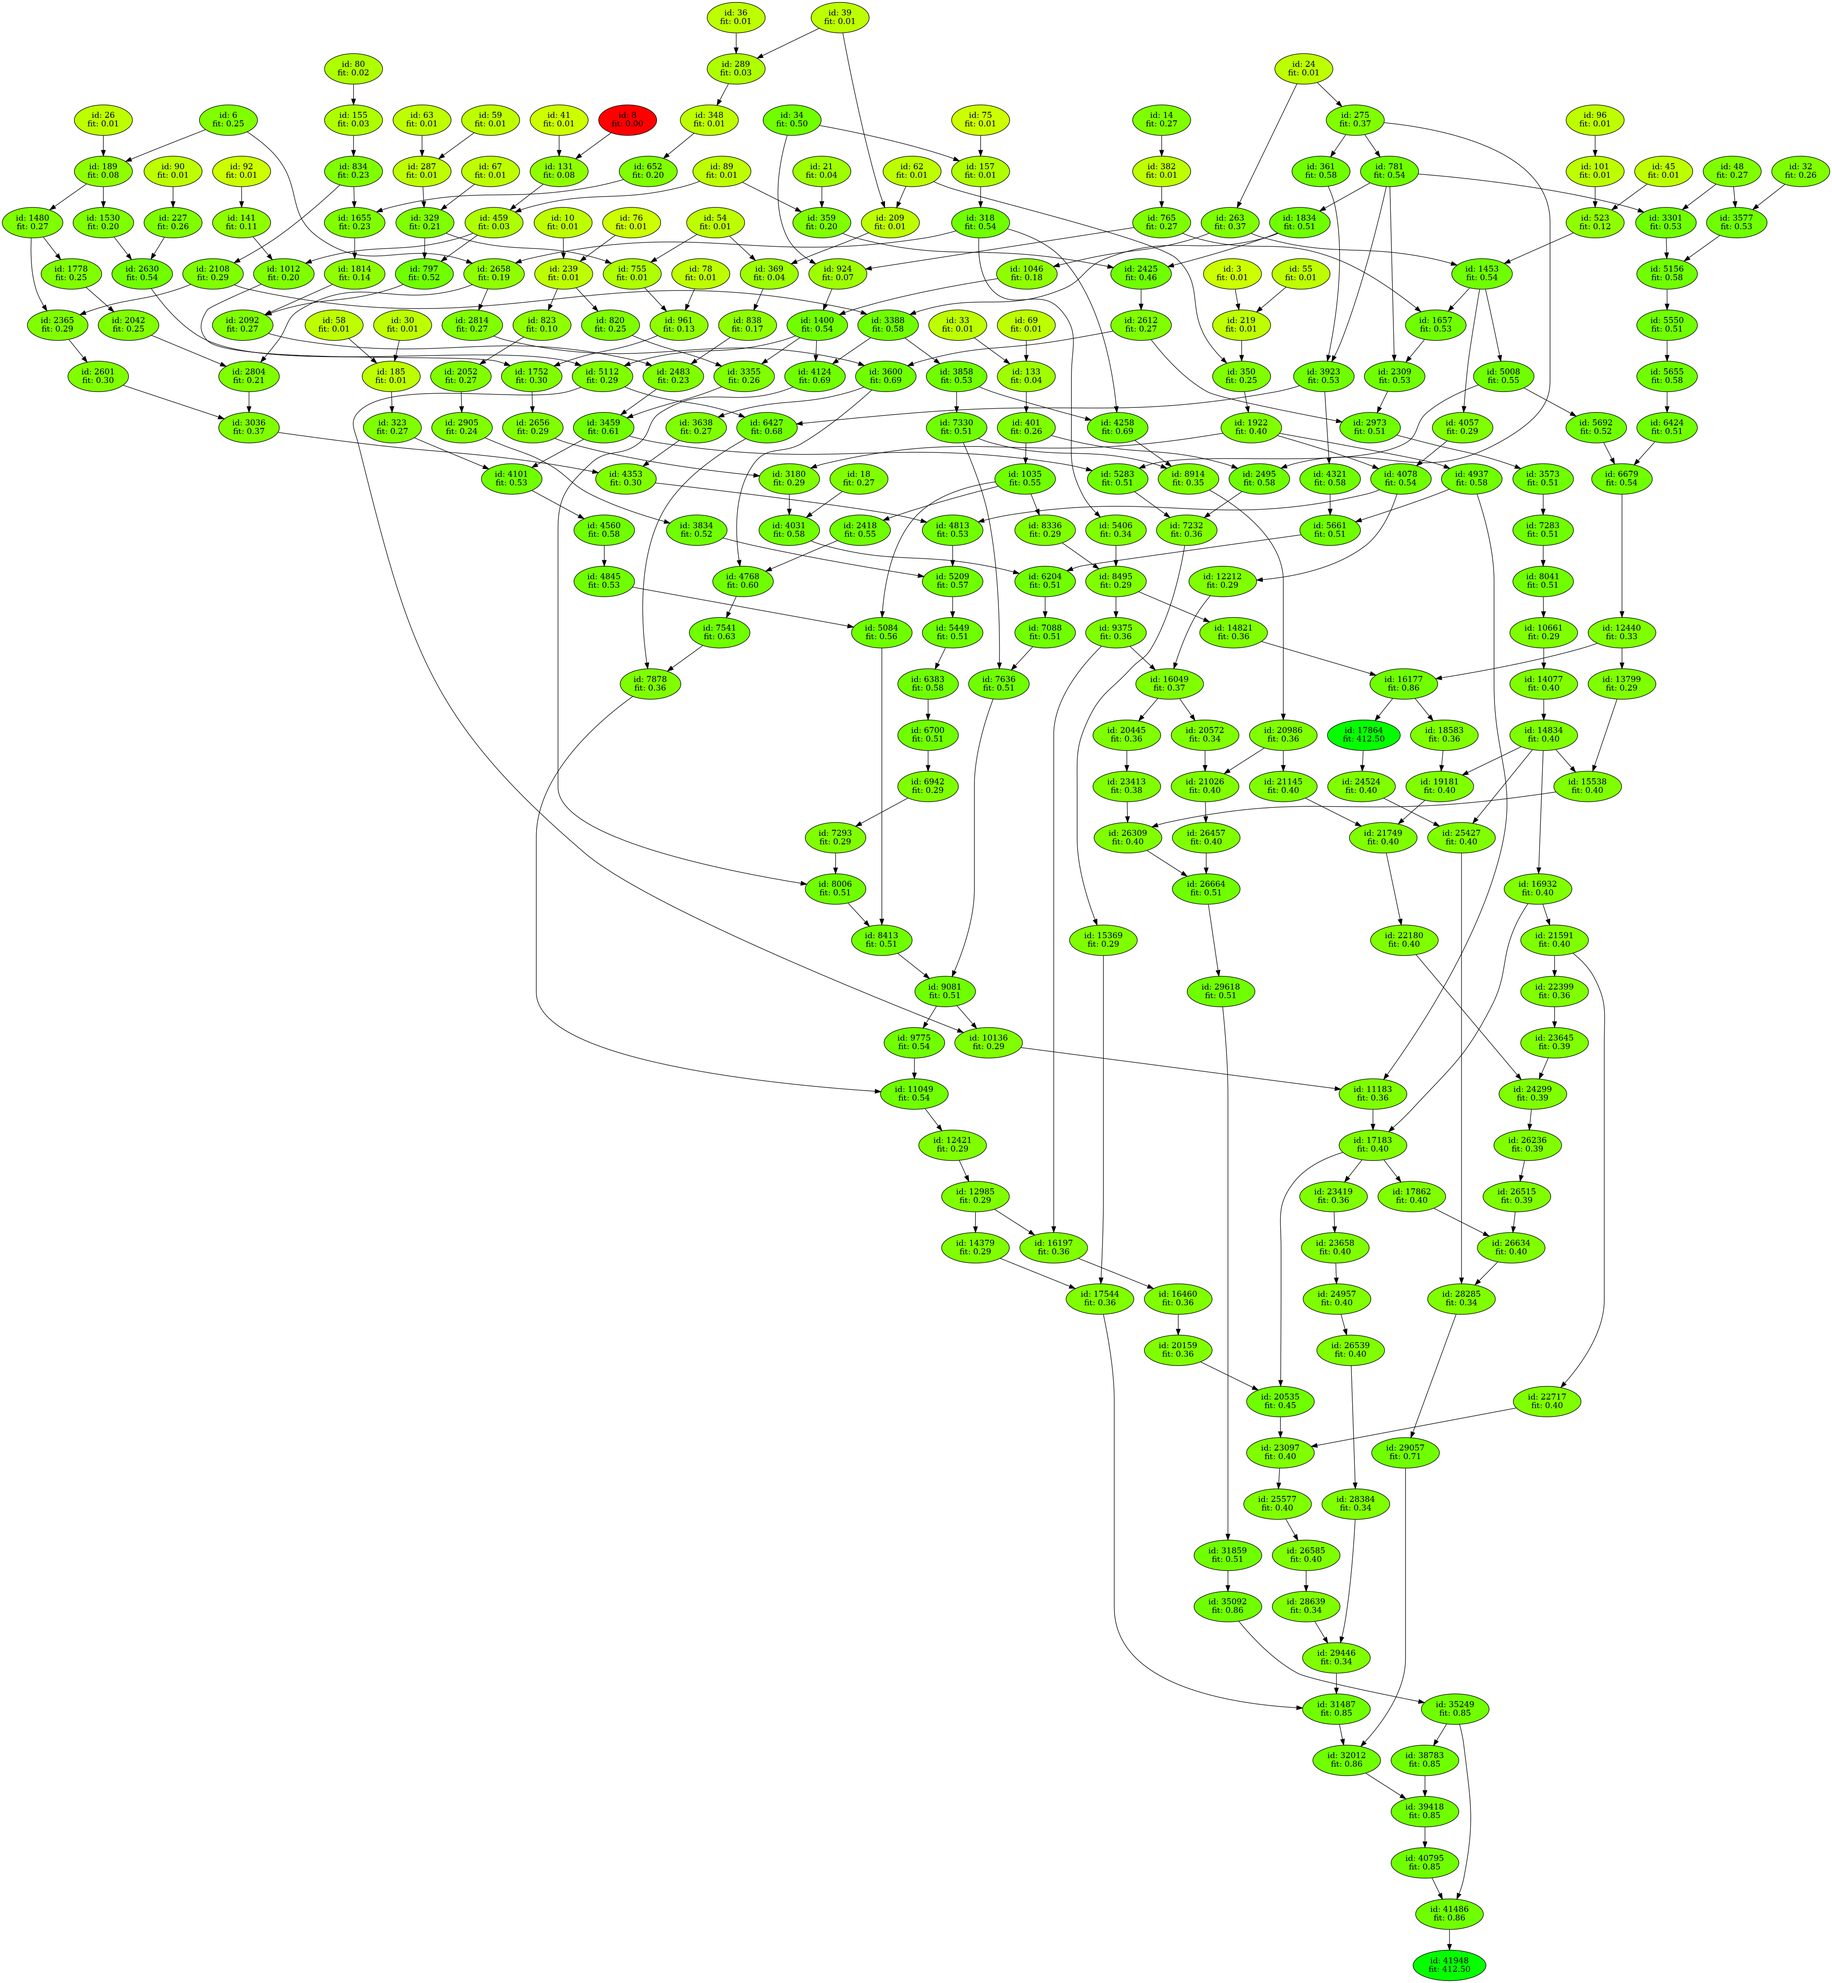
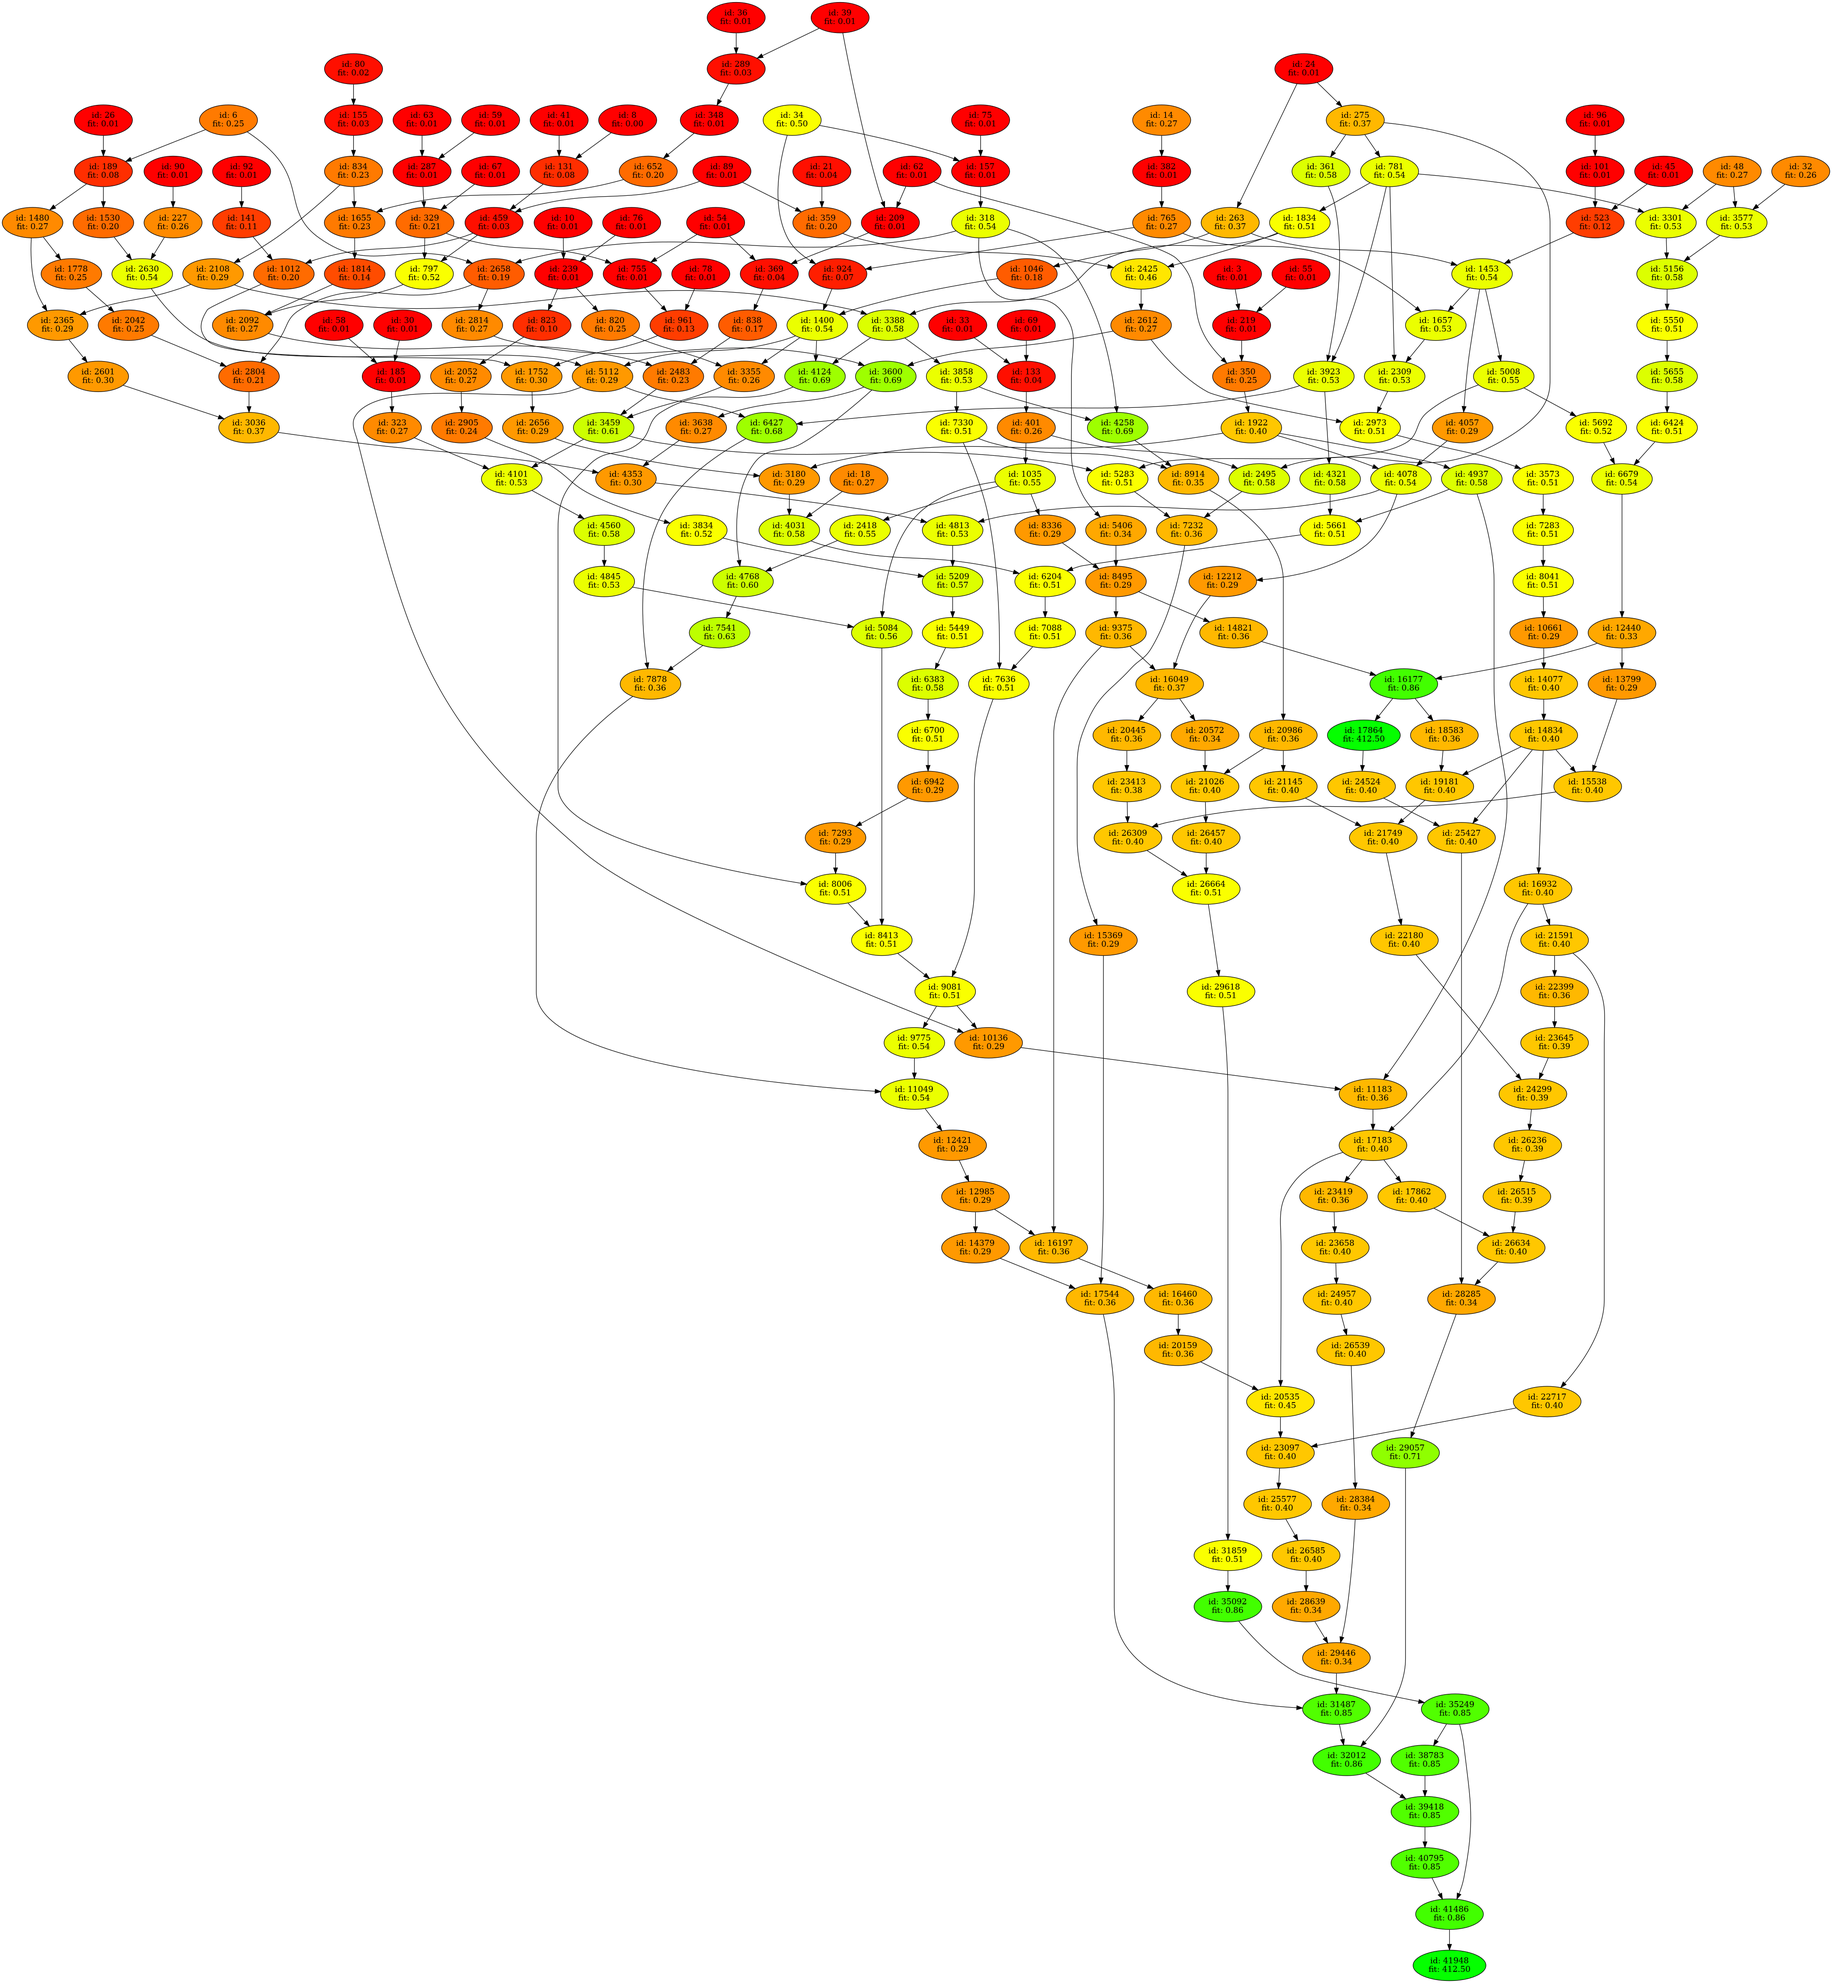
Adjust fitness colouring

diff --git a/src/cpp/TPG/TPG.cc b/src/cpp/TPG/TPG.cc
@@ -1834,23 +1834,13 @@ void TPG::printPhyloGraphDot(team *tm) {
   }
 
   // Color nodes based on fitness
-  if (visited.size() > 1) {
-    std::vector<double> fitnesses;
-    for (long id : visited) {
-      // Add small constant so log function behaves well
-      fitnesses.push_back(log(_phyloGraph[id].fitness + 1e-10));
-    }
+  for (size_t i = 0; i < visited.size(); i++) {
+    double hue = std::clamp(_phyloGraph[visited[i]].fitness, 0.0, 1.0) / 3;
 
-    // Normalize
-    std::vector<double> normFit = MinMaxNorm(fitnesses);
-
-    // Fill from red to green
-    for (size_t i = 0; i < visited.size(); i++) {
-      ofs << visited[i] << " [label=\"id: " << visited[i] << "\\nfit: " << std::fixed << std::setprecision(2) << _phyloGraph[visited[i]].fitness << "\" style=filled, fillcolor=\""
-          << normFit[i] / 3 << " 1.000 1.000" << "\"]" << endl;
-    }
+    ofs << visited[i] << " [label=\"id: " << visited[i] << "\\nfit: " << std::fixed << std::setprecision(2) << _phyloGraph[visited[i]].fitness << "\" style=filled, fillcolor=\""
+        << hue << " 1.000 1.000\"]" << endl;
   }
-
+  
   ofs << "}" << endl;
   ofs.close();
 }
